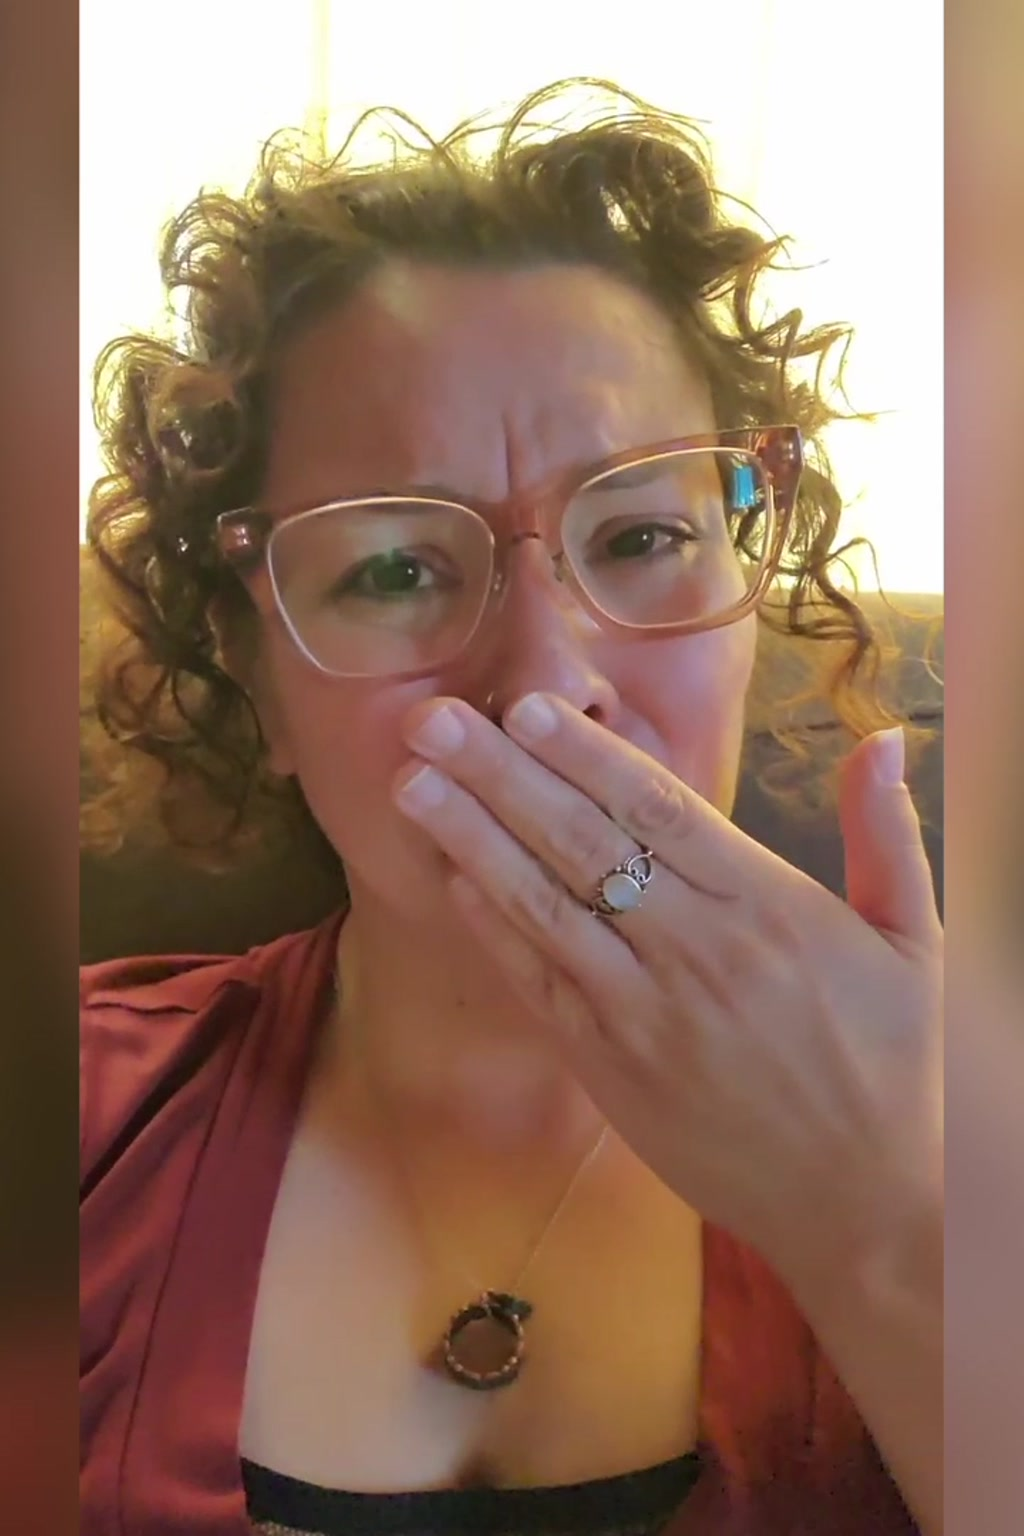
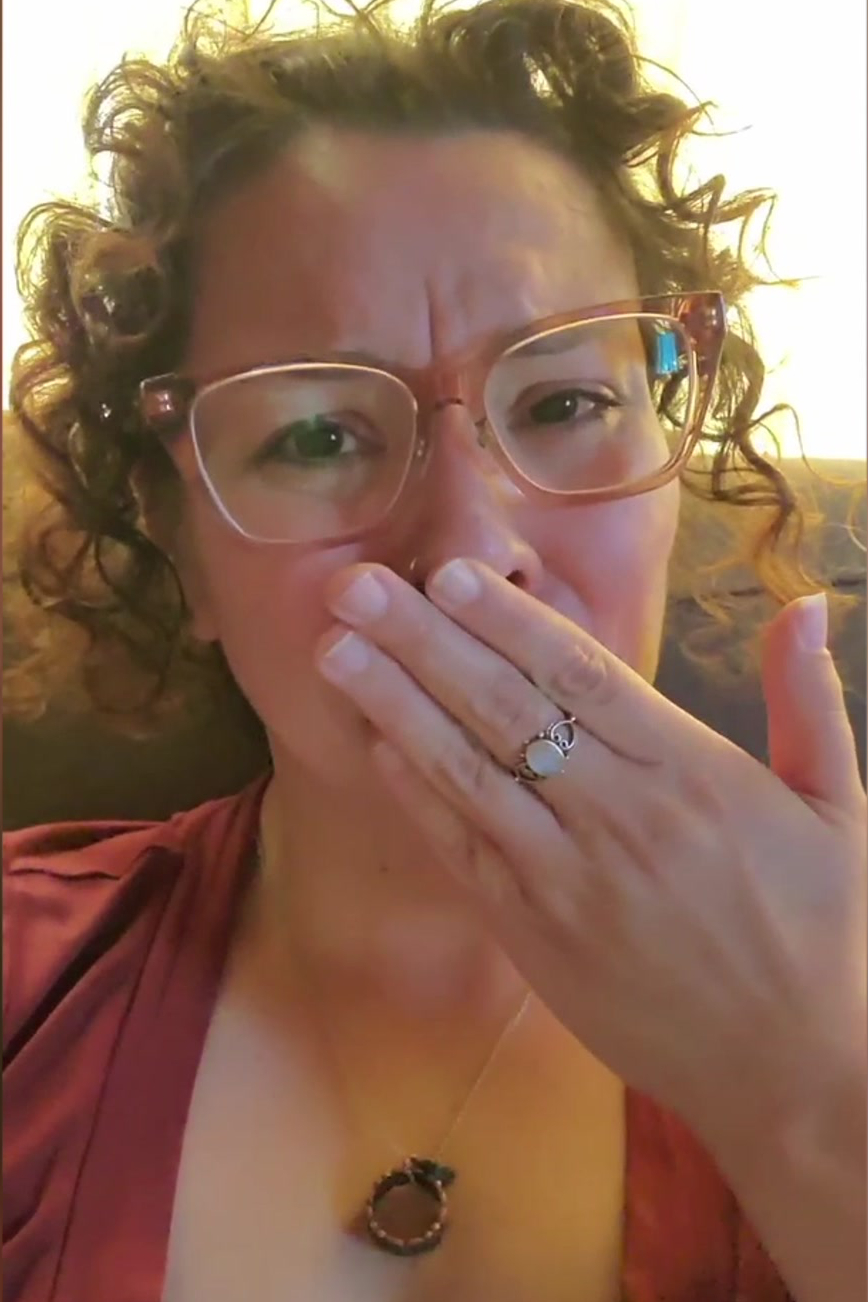
Updates

diff --git a/content/films/2025-team-kludge-aka-team-low-tech-ari/index.md b/content/films/2025-team-kludge-aka-team-low-tech-ari/index.md
@@ -1,6 +1,6 @@
 ---
 title: "ARI"
-image: team-kludge-aka-team-low-tech-ari.png
+image: team-kludge-aka-team-low-tech-ari.jpg
 date: 2025-08-17T19:00:00-07:00
 draft: false
 params:
